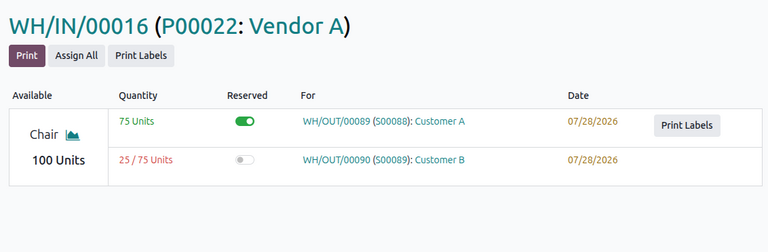
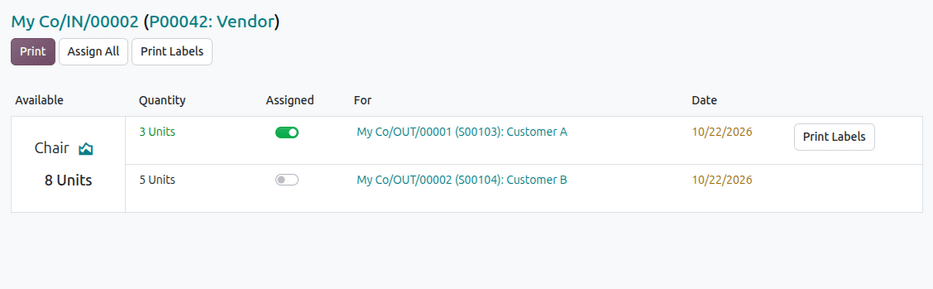
[IMP] Inventory: Allocation report update 20.0

diff --git a/content/applications/inventory_and_mrp/inventory/warehouses_storage/reporting/allocation_report.rst b/content/applications/inventory_and_mrp/inventory/warehouses_storage/reporting/allocation_report.rst
@@ -37,6 +37,21 @@ verify that the :guilabel:`Show Allocation` checkbox is enabled. Enabling this o
 displays the option to view an :ref:`allocation report
 <inventory/allocation_report/workflow/report>` for the specific operation.
 
+.. _inventory/allocation_report/configuration/allocation_location:
+
+Optional: Set allocation location
+---------------------------------
+
+Allocated units can also be sent to a dedicated location separate from stock until they are
+delivered or consumed. To configure this option, locate the *Locations* section on the desired
+:guilabel:`Operation Type` form, then select an internal location in the :guilabel:`Location for
+allocation` field.
+
+.. note::
+   The :guilabel:`Location for allocation` field only appears when the :guilabel:`Show Allocation`
+   option is enabled and the :doc:`Storage Locations <../inventory_management/use_locations>`
+   setting is active.
+
 .. _inventory/allocation_report/workflow:
 
 Workflow
@@ -63,13 +78,15 @@ by purchasing it or by manufacturing it.
 On the receipt from the |PO| or on the confirmed |MO|, users can open the allocation report, which
 displays the incoming product. Next to the product is a list of all applicable outgoing transfers
 (i.e., originating |SOs|/|MOs| containing the product) to which incoming units can be assigned.
-Assigning these units does not move any inventory. Instead, it allows the user to flexibly choose
-which demands to prioritize before actually receiving incoming units. When those units are received,
-the user can fulfill the original demands.
 
-.. note::
-   If multiple products are replenished through the |PO|/|MO|, the allocation report lists all
-   products with originating |SOs|/|MOs| available for reservation.
+.. important::
+   Assigning these units does not move any inventory. Instead, it allows the user to flexibly choose
+   which demands to prioritize before actually receiving incoming units. When those units are
+   received, the user can fulfill the original demands.
+
+   If a *Location for allocation* is configured, any allocated incoming quantity is first sent to
+   the specified location. Only after validating the incoming operation are these allocated units
+   picked from the allocation location.
 
 .. _inventory/allocation_report/workflow/confirm_demand:
 
@@ -120,9 +137,10 @@ it through a |PO| or by manufacturing it through an |MO|.
 Replenish through |PO|
 ~~~~~~~~~~~~~~~~~~~~~~
 
-To create a |PO|, navigate to the **Purchase** app and click :guilabel:`New` to create a new Request
-for Quotation (RfQ). On the form, add the products in demand on the customers' |SOs| by clicking
-:guilabel:`Add a product` in the *Products* tab and specifying the required :guilabel:`Quantity`.
+To create a |PO|, navigate to the :menuselection:`Purchase` app and click :guilabel:`New` to create
+a new Request for Quotation (RfQ). On the form, add the products in demand on the customers' |SOs|
+by clicking :guilabel:`Add a product` in the *Products* tab and specifying the required
+:guilabel:`Quantity`.
 
 After adding the products, click :guilabel:`Confirm Order` to turn the |RfQ| into a |PO|.
 
@@ -170,7 +188,11 @@ each of these products is a list of originating |SOs|/|MOs| to which the product
 Each row of this list displays the :guilabel:`Quantity` of reservable units out of the total demand
 for the product. The quantity is highlighted if it cannot be reserved for the complete demand.
 
-The toggle button in the :guilabel:`Reserved` column allows the user to :ref:`allocate
+.. note::
+   Quantities already reserved for an outgoing order from existing stock cannot be allocated. The
+   report only lists the remaining unreserved quantity of each demand.
+
+The toggle button in the :guilabel:`Assigned` column allows the user to :ref:`allocate
 <inventory/allocation_report/workflow/report/allocate>` the specified quantity.
 
 A link to each |SO|/|MO| is included in the :guilabel:`For` column, along with its expected delivery
@@ -194,6 +216,11 @@ To allocate units for a product, click the toggle button in the :guilabel:`For` 
 
 Alternatively, to allocate all available units for *all* products across all |SOs|/|MOs|, click
 :guilabel:`Assign All` at the top.
+
+.. tip::
+   Incoming units can also be allocated from the product's :ref:`forecasted report
+   <inventory/forecast/report/allocate>` using the :guilabel:`Assign` and :guilabel:`Unassign` links
+   on each demand line.
 
 The quantity of reservable units for each product is automatically calculated in order, starting
 from the oldest |SO|/|MO|. This allows users to allocate as many units as available to fulfill the
@@ -317,3 +344,7 @@ product, its associated |SO|/|MO| number, and its customer (for |SOs|).
 
 .. image:: allocation_report/printed-labels.png
    :alt: Printed labels from an allocation report.
+
+.. seealso::
+   :ref:`Print labels for allocated products in the Barcode app
+   <barcode/receipts_deliveries/allocated-products>`

diff --git a/content/applications/inventory_and_mrp/inventory/warehouses_storage/reporting/forecast.rst b/content/applications/inventory_and_mrp/inventory/warehouses_storage/reporting/forecast.rst
@@ -18,6 +18,8 @@ making, ensuring stock availability for upcoming sales, manufacturing, and reple
    The forecast report is **only** available on products where inventory is being tracked, commonly
    referred to as a *storable product*.
 
+.. _inventory/forecast/report:
+
 Navigating the report
 =====================
 
@@ -54,6 +56,8 @@ The table provides detailed metrics regarding operations, including:
 - :guilabel:`Forecasted with Pending`: The updated stock levels with the pending stock movements
   considered.
 
+.. _inventory/forecast/report/reserve:
+
 Reserve and unreserve products
 ------------------------------
 
@@ -66,6 +70,23 @@ allocation aligns with operational needs.
 .. seealso::
    :doc:`../../shipping_receiving/reservation_methods`
 
+.. _inventory/forecast/report/allocate:
+
+Assign and unassign incoming units
+----------------------------------
+
+When an outgoing demand is matched with an incoming receipt or manufacturing order (MO), users can
+allocate the incoming or manufactured units to the demand by clicking :guilabel:`Assign` on the
+corresponding demand line. To undo the allocation, click :guilabel:`Unassign`.
+
+.. image:: forecast/forecast-assign.png
+   :alt: Allocate units on a forecast report.
+
+.. seealso::
+   :doc:`allocation_report`
+
+.. _inventory/forecast/report/replenish:
+
 Replenish products
 ------------------
 
@@ -73,6 +94,8 @@ Click the :guilabel:`Replenish` button at the top of the report to open the :gui
 Replenish` pop-up. From here, products can be replenished through purchase orders from vendors, or
 manufactured. Select the :guilabel:`Quantity`, :guilabel:`Preferred Route` and :guilabel:`Vendor`,
 before clicking :guilabel:`Confirm`.
+
+.. _inventory/forecast/report/manufacturing-forecast:
 
 Manufacturing forecast
 ----------------------
@@ -87,6 +110,8 @@ timelines, and helps to align manufacturing activities with sales demands.
 .. image:: forecast/manufacturing-forecast.png
    :alt: An example of the manufacturing forecast report.
 
+.. _inventory/forecast/report/update-quantity:
+
 Update quantity
 ---------------
 
@@ -95,6 +120,8 @@ To manually update the quantity of a product, click :guilabel:`Update Quantity`.
 :guilabel:`Product` field, then enter the appropriate value in the :guilabel:`New Quantity on Hand`
 field. Click :guilabel:`Apply` when finished. The report then updates to reflect the new product
 quantity.
+
+.. _inventory/forecast/report/multi-step-reservation:
 
 Multi-step reservation
 ======================
@@ -105,6 +132,8 @@ Reserved quantities for multi-step incoming and outgoing shipments are indicated
 :guilabel:`Stock in Transit` refers to products that have been received, but are in transit to their
 input or quality control locations. :guilabel:`Free Stock in Transit` refers to available products
 received in the input location, but not yet placed in stock.
+
+.. _inventory/forecast/report/operations:
 
 Operations affecting the forecast report
 ========================================
@@ -120,6 +149,8 @@ arrive after the |PO| has been confirmed.
 Confirmed |SOs| decrease the forecasted stock, adjusting the report based on the scheduled delivery
 date. Confirmed manufacturing orders (MOs) affect the forecasted stock for both raw materials and
 finished goods.
+
+.. _inventory/forecast/report/use-cases:
 
 Use cases
 =========

diff --git a/content/applications/inventory_and_mrp/barcode/operations/receipts_deliveries.rst b/content/applications/inventory_and_mrp/barcode/operations/receipts_deliveries.rst
@@ -184,6 +184,27 @@ Continue processing the receipts.
 
    From there, the warehouse worker can continue to process products in the two receipts.
 
+.. _barcode/receipts_deliveries/allocated-products:
+
+Allocated products
+------------------
+
+If incoming units were :doc:`allocated
+<../../inventory/warehouses_storage/reporting/allocation_report>` to outgoing orders, click the
+:icon:`fa-cog` :guilabel:`(gear)` icon in the upper corner of the receipt, then click :guilabel:`See
+Allocation` to open the allocation report and :ref:`print labels
+<inventory/allocation_report/print_labels>` for each unit.
+
+.. note::
+   If a :ref:`Location for allocation
+   <inventory/allocation_report/configuration/allocation_location>` is configured on the operation
+   type (e.g., Receipts, Manufacturing), product lines going to that location display a
+   :icon:`fa-print` :guilabel:`(print)` icon next to the destination location. Click it to print a
+   label for each unit on that line.
+
+.. image:: receipts_deliveries/allocated-receipt.png
+   :alt: Allocated units on a barcode receipt.
+
 Validating the transfer
 -----------------------
 
